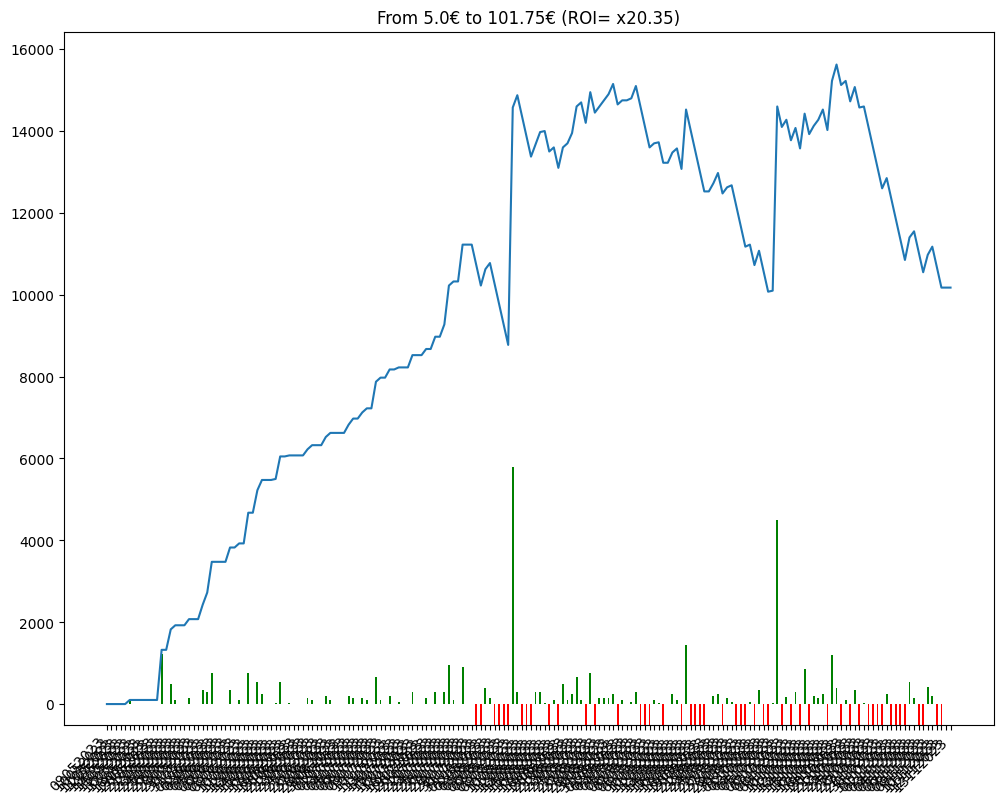
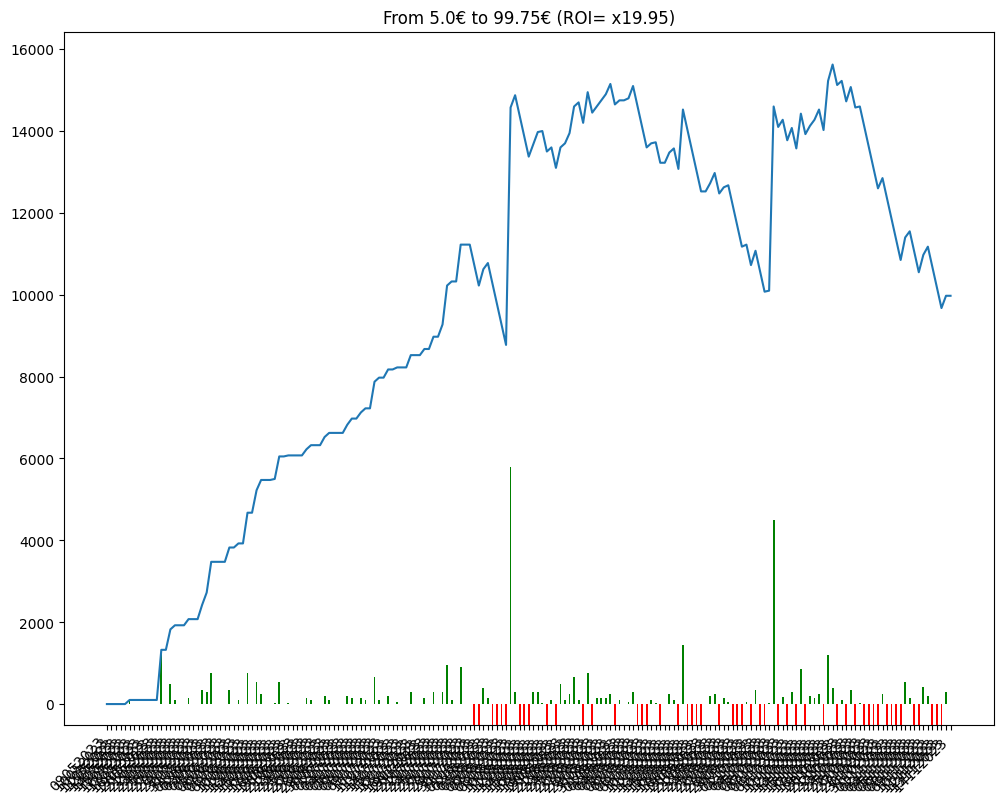
comment from python script

diff --git a/bethistory.html b/bethistory.html
@@ -86,8 +86,9 @@
             En observant la courbe 🤔, on peut avoir une idée visuelle de l'évolution des gains et ainsi évaluer le model utilisé 🧑🏫.
         </p>
         
-        <img src = "/candle.png" alt="candle chart"/><table><tr><td>Chevaux joués</td><td>Gains</td><td>URL Circuits</td></tr><tr><td>2 - TUMBLER</td><td>0</td><td><a href=https://www.pmu.fr/turf/13112023/r3/c6 target="_blank">https://www.pmu.fr/turf/13112023/r3/c6</a></td></tr>
-<tr><td>2 - ALCARAZ</td><td>0</td><td><a href=https://www.pmu.fr/turf/12112023/r3/c5 target="_blank">https://www.pmu.fr/turf/12112023/r3/c5</a></td></tr>
+        <img src = "/candle.png" alt="candle chart"/><table><tr><td>Chevaux joués</td><td>Gains</td><td>URL Circuits</td></tr><tr><td>6 - QUEST THE MOON</td><td>0</td><td><a href=https://www.pmu.fr/turf/14112023/r1/c3 target="_blank">https://www.pmu.fr/turf/14112023/r1/c3</a></td></tr>
+<tr><td>2 - TUMBLER</td><td>+300</td><td><a href=https://www.pmu.fr/turf/13112023/r3/c6 target="_blank">https://www.pmu.fr/turf/13112023/r3/c6</a></td></tr>
+<tr><td>2 - ALCARAZ</td><td>-500</td><td><a href=https://www.pmu.fr/turf/12112023/r3/c5 target="_blank">https://www.pmu.fr/turf/12112023/r3/c5</a></td></tr>
 <tr><td>7 - PACO</td><td>-500</td><td><a href=https://www.pmu.fr/turf/11112023/r1/c2 target="_blank">https://www.pmu.fr/turf/11112023/r1/c2</a></td></tr>
 <tr><td>3 - ROYAL RIGHT</td><td>-500</td><td><a href=https://www.pmu.fr/turf/10112023/r4/c1 target="_blank">https://www.pmu.fr/turf/10112023/r4/c1</a></td></tr>
 <tr><td>3 - ROOSTER CROWING</td><td>+200</td><td><a href=https://www.pmu.fr/turf/09112023/r3/c2 target="_blank">https://www.pmu.fr/turf/09112023/r3/c2</a></td></tr>
